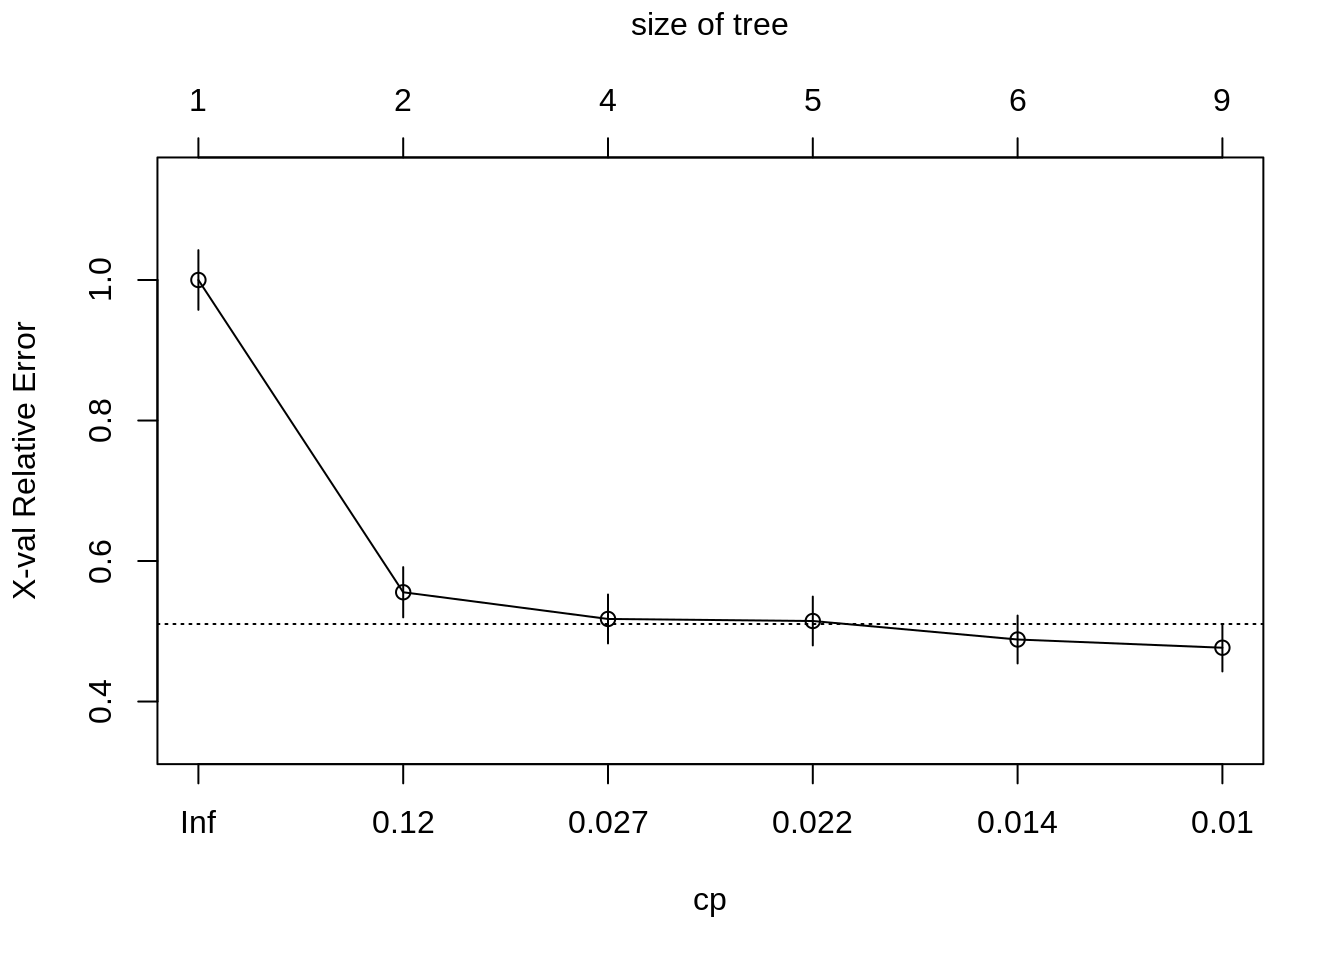
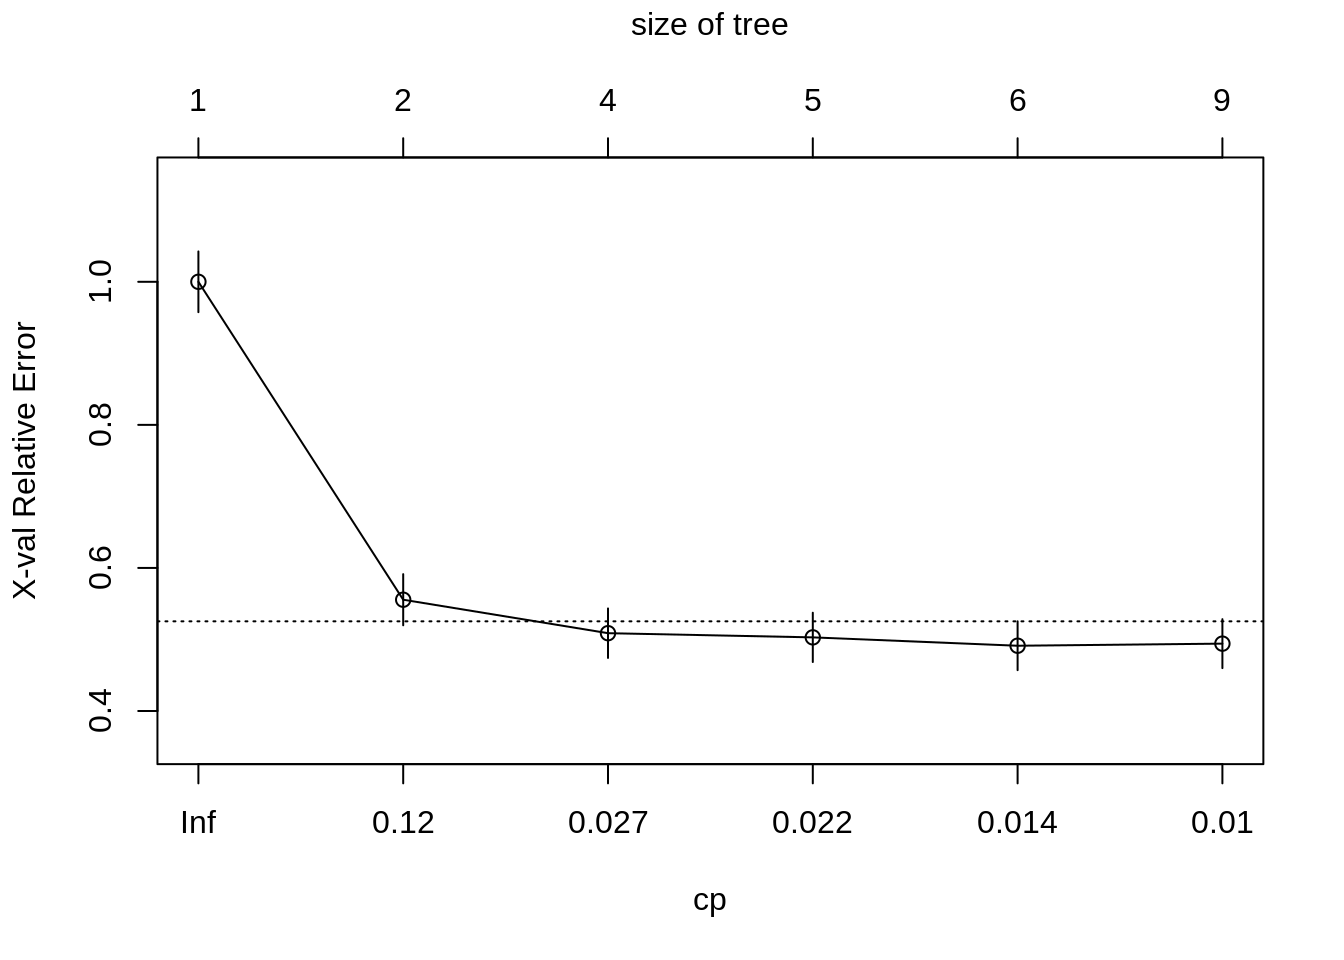
Deploy lebebr01/stat_thinking to github.com/lebebr01/stat_thinking.git:master

diff --git a/docs/classification.html b/docs/classification.html
@@ -324,10 +324,10 @@ titanic &lt;-<span class="st"> </span><span class="kw">bind_rows</span>(titanic_
 ##         CP nsplit rel error  xerror     xstd
 ## 1 0.444444      0   1.00000 1.00000 0.042446
 ## 2 0.030702      1   0.55556 0.55556 0.035750
-## 3 0.023392      3   0.49415 0.51754 0.034823
-## 4 0.020468      4   0.47076 0.51462 0.034749
-## 5 0.010234      5   0.45029 0.48830 0.034061
-## 6 0.010000      8   0.41813 0.47661 0.033744</code></pre>
+## 3 0.023392      3   0.49415 0.50877 0.034599
+## 4 0.020468      4   0.47076 0.50292 0.034448
+## 5 0.010234      5   0.45029 0.49123 0.034140
+## 6 0.010000      8   0.41813 0.49415 0.034217</code></pre>
 <div class="sourceCode"><pre class="sourceCode r"><code class="sourceCode r"><span class="kw">plotcp</span>(class_tree)</code></pre></div>
 <p><img src="05-classification_files/figure-html/unnamed-chunk-6-1.png" width="672" /></p>
 <div class="sourceCode"><pre class="sourceCode r"><code class="sourceCode r">prune_class_tree &lt;-<span class="st"> </span><span class="kw">prune</span>(class_tree, <span class="dt">cp =</span> .<span class="dv">02</span>)

diff --git a/docs/descriptive-statistics-numerically-describing-the-sample-data.html b/docs/descriptive-statistics-numerically-describing-the-sample-data.html
@@ -560,7 +560,6 @@ Y = \begin{pmatrix}10 - 24\\ 10-24\\ 20-24\\ 30-24\\ 50-24\end{pmatrix} = \begin
 <span class="st">  </span><span class="kw">df_stats</span>(<span class="op">~</span><span class="st"> </span>adm_rate, mae)</code></pre></div>
 <pre><code>##   mae_adm_rate
 ## 1    0.1692953</code></pre>
-<!-- This is a test. -->
 <!-- ## Considering Groups -->
 <!-- We've spent a lot of time trying to reason about other variables that may be important in explaining variation in our variable of interest. So far we have only explored the variable without considering other variables, in practice that is not that useful. -->
 <!-- Instead, it is common to compute conditional statistics based on other characteristics in the data. An example may help to show the idea more clearly. -->

diff --git a/docs/05-classification.md b/docs/05-classification.md
@@ -249,10 +249,10 @@ printcp(class_tree)
 ##         CP nsplit rel error  xerror     xstd
 ## 1 0.444444      0   1.00000 1.00000 0.042446
 ## 2 0.030702      1   0.55556 0.55556 0.035750
-## 3 0.023392      3   0.49415 0.51754 0.034823
-## 4 0.020468      4   0.47076 0.51462 0.034749
-## 5 0.010234      5   0.45029 0.48830 0.034061
-## 6 0.010000      8   0.41813 0.47661 0.033744
+## 3 0.023392      3   0.49415 0.50877 0.034599
+## 4 0.020468      4   0.47076 0.50292 0.034448
+## 5 0.010234      5   0.45029 0.49123 0.034140
+## 6 0.010000      8   0.41813 0.49415 0.034217
 ```
 
 ```r

diff --git a/docs/03-descriptive.md b/docs/03-descriptive.md
@@ -709,7 +709,7 @@ colleges %>%
 ```
 
 
-<!-- This is a test. -->
+
 
 <!-- ## Considering Groups -->
 <!-- We've spent a lot of time trying to reason about other variables that may be important in explaining variation in our variable of interest. So far we have only explored the variable without considering other variables, in practice that is not that useful. -->
